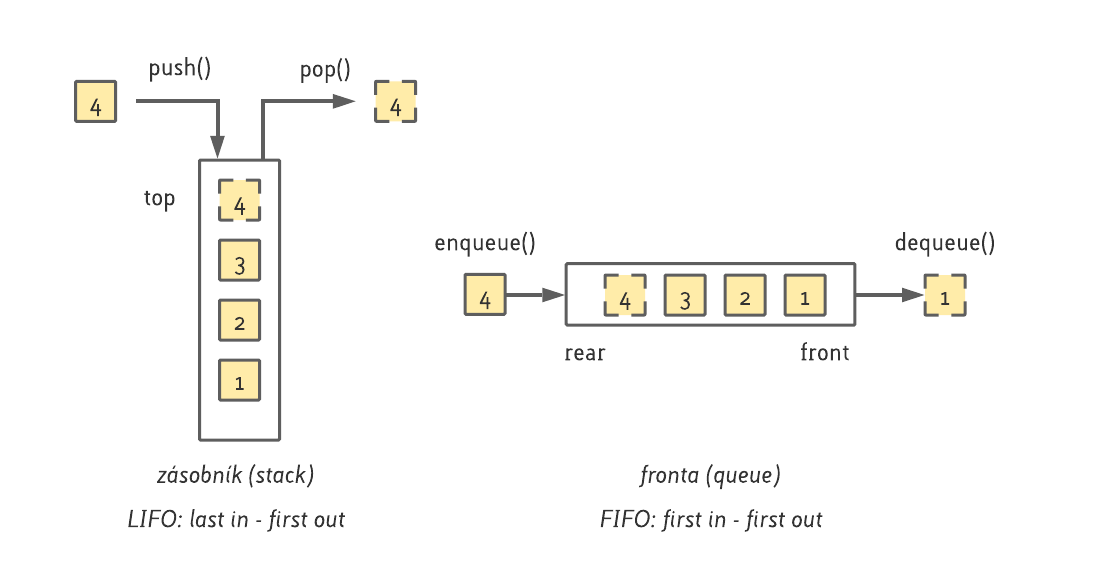
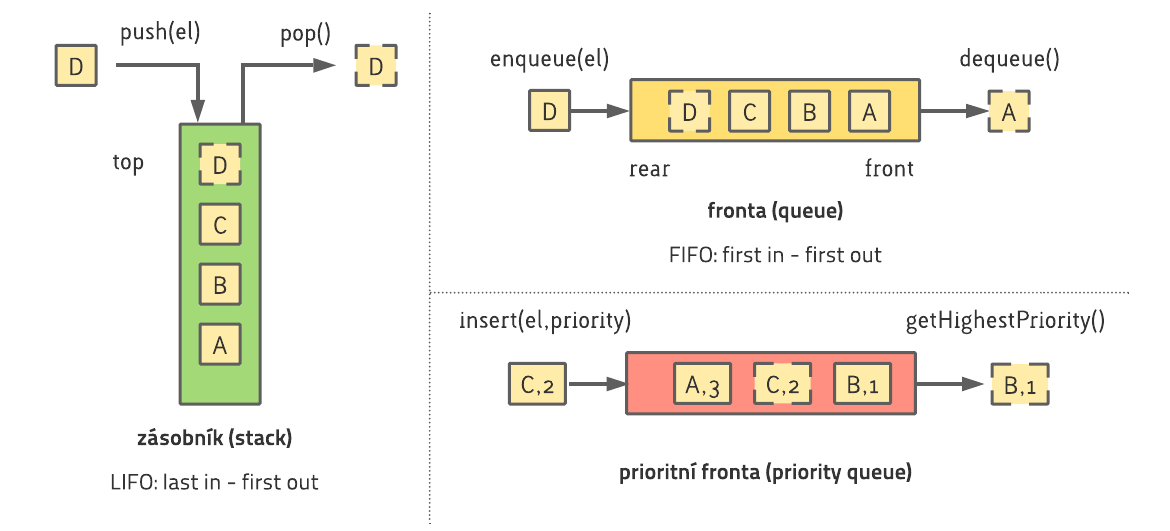
Update lab 07

diff --git a/07/README.md b/07/README.md
@@ -3,13 +3,18 @@
 ## Algoritmizace
 
 ### Zásobník a fronta
-- **abstraktní datové struktury**: definujeme operace, popisujeme chování  - neřešíme konkrétní implementaci
+- **abstraktní datové struktury**
+  - definujeme operace, popisujeme chování
+  - neřešíme konkrétní implementaci
 - zásobník
-  - operace `push()` a `pop()`
+  - operace `push(el)` a `pop()`
   - princip LIFO: last in - first out
 - fronta
-  - operace `enqueue()` a `dequeue()`
+  - operace `enqueue(el)` a `dequeue()`
   - princip FIFO: first in - first out
+- prioritní fronta
+  - operace `insert(el,priority)` a `getHighestPriorityElement()`
+  - vrací vždy prvek s nejvyšší prioritou
   
 ![stack-queue](stack-queue.png)
 
@@ -20,37 +25,38 @@
   - záleží na prioritě operátorů / uzávorkování
 - prefixová (polská) notace
   - operátor před operandy
-  - jednoznačná
-- postfixová notace
+  - *jednoznačná* (nepotřebuje uzávorkování)
+- postfixová (reverzní polská) notace
   - operátor po operandech
-  - jednoznačná
+  - *jednoznačná* (nepotřebuje uzávorkování)
 
----
 #### Příklady
   - infix:  `A * B + C`
-  - prefix:  `+ * A B C`  (odpovídá výrazu `sum(mul(A, B), C)`)
-  - postfix:  `A B * C +` (vyhodnotím A B -> multi)
+  - prefix:  `+ * A B C`  (odpovídá výrazu `sečti(vynásob(A, B), C)`)
+  - postfix:  `A B * C +` (odpovídá posloupnosti operací `((A,B -> vynásob),C -> sečti)`)
 ---
   - infix:  `A * (B + C)`
-  - prefix:  `* A + B C`  (odpovídá výrazu `mul(A, sum(B,C)`)
-  - postfix:  `A B C + *` 
----
+  - prefix:  `* A + B C`  (odpovídá výrazu `vynásob(A, sečti(B,C)`)
+  - postfix:  `A B C + *` (odpovídá posloupnosti operací `(A,(B,C -> sečti) -> vynásob)`)
+
 #### Úkoly
 Výrazy mohou obsahovat operátory `+`, `-`, `*`, `/` a číselné operandy. Jednotlivé literály můžete identifikovat pomocí funkcí `is_operator()` a `is_operand()`. Operátor se dvěma operandy můžete vyhodnotit jako `OPERATOR(OPERAND1, OPERAND2)`.
 
-Máte k dispozici zásobník `stack` s funkcemi `push()` a `pop()`.
+Máte k dispozici zásobník `stack` s funkcemi `push(el)`, `pop()` a `is_empty()`.
 
 **Postfix**
 1. Zapište (pseudo)kódem algoritmus pro vyhodnocení výrazu v postfixové notaci.
 2. Převeďte ručně výraz `(7 + 3) * (5 - 2)` do postfixové notace.
-3.Ukažte jednotlivé kroky Vašeho algoritmu z bodu 1 při vyhodnocení výrazu `(7 + 3) * (5 - 2)` v **postfixové notaci** z bodu 2.
+3. Ukažte jednotlivé kroky Vašeho algoritmu z bodu 1 při vyhodnocení výrazu `(7 + 3) * (5 - 2)` v **postfixové notaci** z bodu 2.
 
 **Prefix**
 1. Zapište (pseudo)kódem algoritmus pro vyhodnocení výrazu v prefixové notaci.
 2. Převeďte ručně výraz `(7 + 3) * (5 - 2)` do prefixové notace.
 3. Ukažte jednotlivé kroky Vašeho algoritmu z bodu 1 při vyhodnocení výrazu `(7 + 3) * (5 - 2)` v **prefixové notaci** z bodu 2.
 
-Která notace je výhodnější pro průběžné vyhodnocování výrazu během jeho zadávání?
+**Prefix vs. postfix**
+1. Která notace (prefix vs. postfix) je výhodnější pro průběžné vyhodnocování výrazu během jeho zadávání?
+2. 
 
 ### Průchod stromem po hladinách
 
@@ -58,9 +64,9 @@ Která notace je výhodnější pro průběžné vyhodnocování výrazu během 
 
 #### Úkol
 
-Strom obsahuje prvky typu `Node`, každý prvek obsahuje hodnotu `value`. Ke stromu můžete přistupovat přes jeho kořen `root` (v příkladu prvek s hodnotou `1`), k potomkům každého prvku pak přes atribut `node.children`.
+Strom obsahuje prvky typu `Node`, každý prvek obsahuje hodnotu `value`. Ke stromu můžete přistupovat přes jeho kořen `root` (v příkladu prvek s hodnotou `1`), k potomkům každého prvku můžete přistupovat přes atribut `node.children`.
 
-Máte k dispozici frontu `queue` s funkcemi `enqueue()` a `dequeue()`.
+Máte k dispozici frontu `queue` s funkcemi `enqueue(el)`, `dequeue()` a `is_empty()`. (*A rekurzi ještě neznáte*)
 
 1. Zapište (pseudo)kód, který vypíše prvky ve stromu po hladinách (tedy v příkladu v pořadí `1 2 3 4 5 6 7 8 9`).
 2. Ukažte jednotlivé kroky Vašeho algoritmu z bodu 1 na stromu z příkladu.
